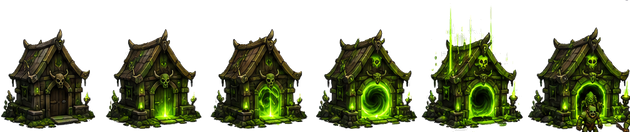
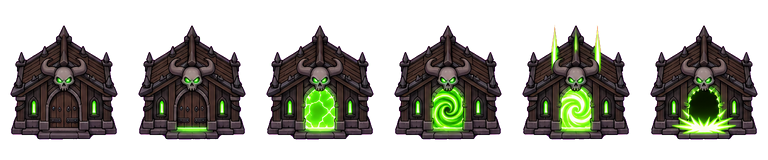
feat(repaire): nouvelle planche du repaire ennemi
Grille régulière en quatre couleurs et six poses, découpée sans frange et sans
monstre dessiné dans la porte. Le bâtiment reste à deux cases de haut et le halo
au sol prend la couleur du repaire.

diff --git a/labyrinthe-magique/tools/build_lairs.py b/labyrinthe-magique/tools/build_lairs.py
@@ -12,11 +12,9 @@ un portail s'ouvre, l'énergie jaillit du toit, puis la créature sort. Le joueu
 voit donc le danger venir AVANT qu'il n'arrive — c'est tout l'intérêt de
 remplacer une apparition au hasard par une maison.
 
-Le fond est blanc uni : on le détoure par remplissage depuis les bords, comme
-pour les premières planches de mages. Les colonnes se mesurent toutes seules
-(les maisons ne se touchent pas) ; les rangées se mesurent DANS une colonne
-étroite, parce que les grandes vignettes de gauche débordent d'une rangée sur
-l'autre et brouillent le profil global.
+La grille est RÉGULIÈRE, commandée par `docs/prompts/decor/repaire_ennemi.md` : on
+ne détecte rien. Le fond magenta part par remplissage depuis les bords de la case,
+car la rangée violette vit trop près de lui pour une clé de teinte.
 """
 
 from pathlib import Path
@@ -25,56 +23,67 @@ import numpy as np
 from PIL import Image
 from scipy import ndimage
 
-SOURCE = Path("assets/peso&cover/decor/portail_enemi.png")
+SOURCE = Path("assets/peso&cover/decor/repaire_ennemi.png")
 OUT = Path("assets/lairs")
 
 COLORS = ["rouge", "violet", "vert", "cyan"]
 POSES = ["ferme", "lueur", "portail", "ouvert", "plein", "eruption"]
 
-## Colonnes d'animation, relevées automatiquement puis figées : la première
-## vignette de chaque rangée est un PORTRAIT géant qu'on ne veut pas, et la
-## dernière traîne les créatures déjà sorties, qu'on recadre.
-COLUMN_STARTS = [347, 521, 701, 880, 1066, 1254]
-CELL_WIDTH = 168
-## Hauteur des rangées, débordement des faisceaux d'énergie compris.
-ROW_TOPS = [60, 282, 514, 762]
-CELL_HEIGHT = 212
-
-## Hauteur finale d'une case. Le repaire occupe ~2,5 cases de 32 px.
-FRAME_HEIGHT = 132
+SOURCE_CELL = (256, 320)
+## Moitié de la case source : assez pour rester net, sur un écran Retina compris.
+FRAME = (128, 160)
+BACKGROUND = np.array([255.0, 0.0, 255.0])
+## Distance au fond, sur le pire canal : sous `FLOOD` le fond coule depuis le bord, et
+## entre les deux seuils un pixel de contour est un mélange qu'on sépare du fond.
+FLOOD = 70.0
+OPAQUE = 150.0
+RIM_PX = 3
 
 
-def cutout(image: Image.Image) -> Image.Image:
-    """Détourage du fond blanc, par remplissage depuis les bords.
+def cutout(cell: Image.Image) -> np.ndarray:
+    """La case détourée, en alpha PRÉMULTIPLIÉ : le magenta ne bavera pas à la réduction."""
+    rgb = np.asarray(cell.convert("RGB")).astype(float)
+    distance = np.abs(rgb - BACKGROUND).max(axis=2)
+    parts, _ = ndimage.label(distance < FLOOD)
+    edges = np.unique(np.concatenate([parts[0], parts[-1], parts[:, 0], parts[:, -1]]))
+    outside = np.isin(parts, edges[edges > 0])
 
-    Un simple seuil suffirait presque, mais il mangerait les crânes clairs et
-    les bougies des façades. En partant des bords, on ne retire que ce qui est
-    RELIÉ au fond."""
-    rgb = np.array(image.convert("RGB")).astype(int)
-    low, high = rgb.min(axis=2), rgb.max(axis=2)
-    background = (low > 232) & ((high - low) < 14)
-    labels, _ = ndimage.label(background)
-    edges = set(labels[0]) | set(labels[-1]) | set(labels[:, 0]) | set(labels[:, -1])
-    edges.discard(0)
-    alpha = np.where(np.isin(labels, list(edges)), 0, 255).astype(np.uint8)
-    return Image.fromarray(np.dstack([rgb, alpha]).astype(np.uint8), "RGBA")
+    alpha = np.ones(distance.shape)
+    alpha[outside] = 0.0
+    rim = ndimage.binary_dilation(outside, iterations=RIM_PX) & ~outside
+    alpha[rim] = np.clip(distance[rim] / OPAQUE, 0.0, 1.0)
+
+    # Un pixel de bord vaut `a * dessin + (1 - a) * fond` : on en retire le fond.
+    clean = rgb - (1.0 - alpha[..., None]) * BACKGROUND
+    return np.dstack([np.clip(clean, 0.0, 255.0), alpha * 255.0])
+
+
+def reduced(premultiplied: np.ndarray, size: tuple) -> np.ndarray:
+    channels = [Image.fromarray(premultiplied[..., i].astype(np.float32), "F").resize(size, Image.LANCZOS)
+                for i in range(4)]
+    return np.clip(np.dstack([np.asarray(channel) for channel in channels]), 0.0, 255.0)
+
+
+def straight(premultiplied: np.ndarray) -> Image.Image:
+    alpha = premultiplied[..., 3:4] / 255.0
+    rgb = np.where(alpha > 0.0, premultiplied[..., :3] / np.maximum(alpha, 1e-4), 0.0)
+    return Image.fromarray(np.dstack([np.clip(rgb, 0.0, 255.0), premultiplied[..., 3]]).astype(np.uint8), "RGBA")
 
 
 def build() -> dict:
-    sheet = cutout(Image.open(SOURCE))
+    sheet = Image.open(SOURCE)
     OUT.mkdir(parents=True, exist_ok=True)
-    width = int(round(CELL_WIDTH * FRAME_HEIGHT / CELL_HEIGHT))
-
+    feet = 0
     for row, color in enumerate(COLORS):
-        strip = Image.new("RGBA", (CELL_WIDTH * len(POSES), CELL_HEIGHT), (0, 0, 0, 0))
-        for column, x in enumerate(COLUMN_STARTS):
-            y = ROW_TOPS[row]
-            cell = sheet.crop((x, y, x + CELL_WIDTH, y + CELL_HEIGHT))
-            strip.alpha_composite(cell, (column * CELL_WIDTH, 0))
-        strip = strip.resize((width * len(POSES), FRAME_HEIGHT), Image.LANCZOS)
+        strip = Image.new("RGBA", (FRAME[0] * len(POSES), FRAME[1]), (0, 0, 0, 0))
+        for column in range(len(POSES)):
+            box = (column * SOURCE_CELL[0], row * SOURCE_CELL[1],
+                   (column + 1) * SOURCE_CELL[0], (row + 1) * SOURCE_CELL[1])
+            frame = straight(reduced(cutout(sheet.crop(box)), FRAME))
+            feet = max(feet, frame.getbbox()[3])
+            strip.paste(frame, (column * FRAME[0], 0))
         strip.save(OUT / f"{color}.png")
-
-    meta = {"cell": [width, FRAME_HEIGHT], "colors": COLORS, "poses": POSES}
+    meta = {"cell": list(FRAME), "feet_y": feet, "colors": COLORS, "poses": POSES}
     (OUT / "frames.json").write_text(json.dumps(meta, indent=2), encoding="utf-8")
     return meta
 
@@ -84,8 +93,8 @@ def main() -> None:
         print(f"  ! {SOURCE} introuvable")
         return
     meta = build()
-    print("repaires : %d couleurs x %d poses, case %dx%d" % (
-        len(meta["colors"]), len(meta["poses"]), meta["cell"][0], meta["cell"][1]))
+    print("repaires : %d couleurs x %d poses, case %dx%d, pieds à %d" % (
+        len(meta["colors"]), len(meta["poses"]), meta["cell"][0], meta["cell"][1], meta["feet_y"]))
 
 
 if __name__ == "__main__":

diff --git a/labyrinthe-magique/docs/prompts/decor/repaire_ennemi.md b/labyrinthe-magique/docs/prompts/decor/repaire_ennemi.md
@@ -1,0 +1,94 @@
+# Le repaire des ennemis, refait — prompt
+
+## Pourquoi
+
+Défauts relevés sur `assets/lairs/` et en capture :
+
+1. **les poses débordent de leur case** : le dessin touche les deux bords sur les six
+   poses, sans aucune marge ;
+2. **une frange blanche** entoure l'éruption, reste du détourage sur fond blanc ;
+3. **des créatures sont dessinées dans la dernière pose**, alors que le jeu fait sortir
+   le vrai ennemi : on voit un monstre qui n'est pas le bon, en double ;
+4. **le bâtiment bouge d'une pose à l'autre**, et se lit mal à sa taille réelle.
+
+## Les dimensions du jeu
+
+| Mesure | Valeur |
+|---|---|
+| Case de la planche | 256 x 320, même rapport que la case actuelle (105 x 132) |
+| Planche | 6 colonnes x 4 rangées, soit 1536 x 1280 |
+| Rangées | rouge, violet, vert, cyan (`COLORS` de `build_lairs.py`) |
+| Colonnes | fermé, lueur, portail, ouvert, plein, éruption |
+| Pied du bâtiment | y = 269 sur 320, soit 84 % : c'est lui qui tombe sur la case du labyrinthe |
+| Taille en jeu | 2,6 cases de haut (`EnemyLair.TARGET_HEIGHT_TILES`), environ 90 px à l'écran |
+| Barre de vie | à 1,55 case au-dessus du pied, dessinée par le jeu |
+
+---
+
+## Le prompt
+
+```
+Feuille d'animation pour un jeu 2D de labyrinthe, style cartoon coloré de jeu de rôle
+mobile, contours sombres nets et épais, grandes formes simples. L'image sera affichée
+très petite, environ 90 pixels de haut : la silhouette doit se lire au premier regard,
+sans petits détails.
+
+SUJET — LE REPAIRE DES MONSTRES : une petite chapelle maudite en pierre sombre et bois
+noirci, toit pentu à deux pans et grande porte en arc au centre de la façade, surmontée
+d'un seul grand crâne cornu. Un socle de pierre bas et compact, sans sol autour. Le
+bâtiment est trapu, presque aussi large que haut.
+
+VUE — de FACE, en légère plongée d'environ 30 degrés : la façade et la porte regardent
+droit vers le bas de l'image, le bâtiment est parfaitement symétrique. On voit un peu le
+dessus du toit. Pas de vue de trois quarts, pas de vue de côté.
+
+FORMAT DE LA PLANCHE — impératif :
+- image finale de 1536 x 1280 pixels ;
+- fond MAGENTA UNI #FF00FF partout, aucun dégradé, aucune transparence ;
+- grille RÉGULIÈRE de 6 colonnes sur 4 rangées, cases de 256 x 320 pixels exactement ;
+- NE PAS dessiner les lignes de la grille, ni cadre, ni numéro, ni texte ;
+- dans CHAQUE case, le bâtiment occupe 200 pixels de large et 200 pixels de haut,
+  centré en largeur, le bas de son socle à 51 pixels du bas de la case ;
+- le bâtiment a exactement la MÊME TAILLE et la MÊME POSITION dans les 24 cases : seules
+  les lumières changent, jamais une pierre ni une planche ;
+- rien ne touche le bord d'une case, pas même la lumière : au moins 20 pixels de magenta
+  tout autour. Aucune pose ne touche sa voisine.
+
+LES QUATRE RANGÉES — le MÊME bâtiment, seule la couleur de la magie change :
+1. rouge #FF3B2E
+2. violet bleuté #8A5CFF
+3. vert #6DFF3A
+4. cyan #3FE0E8
+La pierre et le bois restent gris-brun très sombres dans les quatre rangées, sans mousse,
+sans sable, sans neige : le repaire doit aller sur tous les décors.
+
+LES SIX COLONNES — l'ouverture du repaire, de gauche à droite :
+1. FERMÉ : la porte de bois est close, les yeux du crâne à peine allumés.
+2. LUEUR : porte encore close, une lumière filtre sous la porte et les yeux brillent.
+3. PORTAIL : les battants ont disparu, une nappe de lumière vibre dans l'arche.
+4. OUVERT : un tourbillon de magie net remplit l'arche.
+5. PLEIN : le tourbillon est au plus vif, et trois courts traits de lumière montent du
+   toit, sans sortir de la case.
+6. ÉRUPTION : l'arche est grande ouverte sur un fond noir cerné de lumière, et un éclat
+   de magie s'étale devant le seuil. Aucune créature : le jeu fera sortir le vrai monstre.
+
+LA LUMIÈRE — à bords nets, en aplats : pas de halo flou, pas de lueur diffuse, pas
+d'étincelles isolées autour du bâtiment. Le fond magenta doit rester parfaitement pur
+jusqu'au contour.
+
+À NE PAS FAIRE : aucun personnage, aucun monstre, aucune silhouette dans la porte, pas de
+sol, pas d'ombre portée, pas d'herbe ni de cailloux autour du socle, aucune case vide, pas
+de texte, pas de grand portrait du bâtiment à côté de la grille.
+```
+
+---
+
+## Où la déposer
+
+    assets/peso&cover/decor/repaire_ennemi.png
+
+C'est la planche branchée depuis le 2026-11-01 : `build_lairs.py` la découpe en cases de
+128 x 160, et lit la grille annoncée. Elle est sortie fidèle : le bâtiment ne bouge pas
+d'une pose à l'autre, à 1 px près hors traits de lumière. Son socle est à 42 px du bas au
+lieu de 51, et elle fait 213 x 228 au lieu de 200 x 200 : `frames.json` porte donc `feet_y`,
+et `EnemyLair` règle sa taille sur cette mesure.

diff --git a/labyrinthe-magique/docs/PROMPTS.md b/labyrinthe-magique/docs/PROMPTS.md
@@ -137,6 +137,7 @@ labyrinthe avec sa gemme allumée au centre — une forme, pas une scène.
 |---|---|
 | la couverture de l'écran-titre, en PAYSAGE | [interface/couverture_paysage](prompts/interface/couverture_paysage.md) |
 | le portail de téléportation, couleur unique | [interface/portail_teleportation](prompts/interface/portail_teleportation.md) |
+| le repaire des ennemis, six poses et quatre couleurs | [decor/repaire_ennemi](prompts/decor/repaire_ennemi.md) |
 
 ## Ce que dix planches ont appris
 
